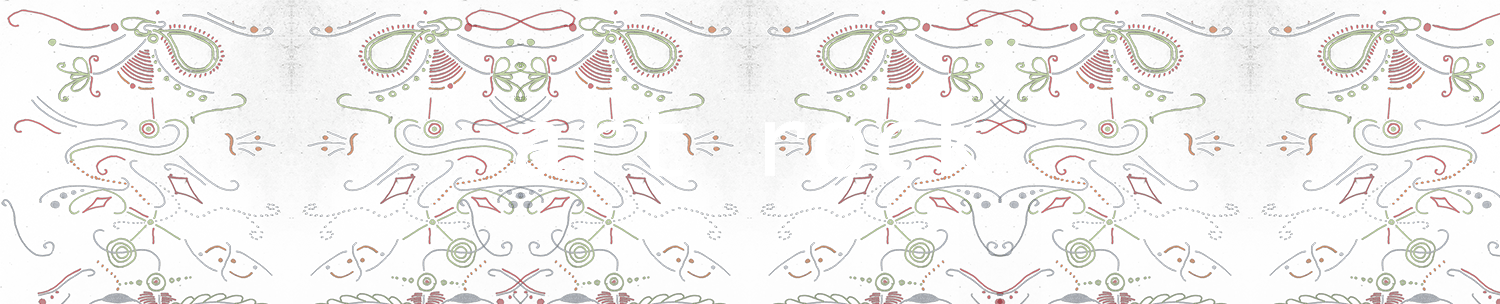
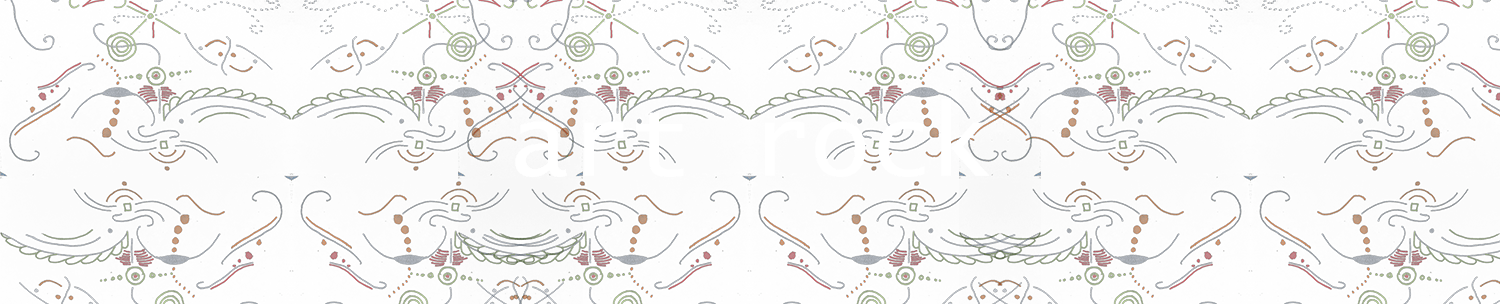
pulsating!

diff --git a/styles/index3.css b/styles/index3.css
@@ -17,10 +17,101 @@
       background-size: 300px;
     }
 
+    @keyframes hueRotation {
+      0% {
+        filter: hue-rotate(0deg);
+      }
+      100% {
+        filter: hue-rotate(360deg);
+      }
+    }
+
+    @keyframes pulsate {
+      0% {
+        transform: scale(1);
+      }
+      50% {
+        transform: scale(1.05);
+      }
+      100% {
+        transform: scale(1);
+      }
+    }
+    @keyframes pulsateMore {
+      0% {
+        transform: scale(1);
+      }
+      50% {
+        transform: scale(1.3);
+      }
+      100% {
+        transform: scale(1);
+      }
+    }
+
+    #infinityTitle {
+      animation: hueRotation 10s linear infinite, pulsate 5s ease-in-out infinite alternate;
+    }
+    
+    #horseloverTitle {
+      animation: hueRotation 8s linear infinite, pulsate 6s ease-in-out infinite alternate;
+    }
+    
+    #maapTitle {
+      animation: hueRotation 12s linear infinite, pulsate 4s ease-in-out infinite alternate;
+    }
+    
+    #maasTitle {
+      animation: hueRotation 7s linear infinite, pulsate 7s ease-in-out infinite alternate;
+    }
+    
+    #sapientsTitle {
+      animation: hueRotation 9s linear infinite, pulsate 3s ease-in-out infinite alternate;
+    }
+    
+    #symbioseTitle {
+      animation: hueRotation 11s linear infinite, pulsate 5s ease-in-out infinite alternate;
+    }
+    
+    #braidingTitle {
+      animation: hueRotation 9s linear infinite, pulsate 8s ease-in-out infinite alternate;
+    }
+    
+    #luzTitle {
+      animation: hueRotation 10s linear infinite, pulsate 4s ease-in-out infinite alternate;
+    }
+    
+    #inertiaTitle {
+      animation: hueRotation 8s linear infinite, pulsate 6s ease-in-out infinite alternate;
+    }
+
     #optionsDiv {
       transition: 1s;
       pointer-events: none;
     }
+    #musicOption {
+      animation: hueRotation 4s linear infinite, pulsate 2s ease-in-out infinite alternate;
+    }
+    #imagesOption {
+      animation: hueRotation 5s linear infinite, pulsate 3s ease-in-out infinite alternate;
+    }
+    #poemsOption {
+      animation: hueRotation 3s linear infinite, pulsate 4s ease-in-out infinite alternate;
+    }
+    #hiddenOption {
+      animation: hueRotation 2s linear infinite, pulsate 5s ease-in-out infinite alternate;
+    }
+    #aboutOption {
+      animation: hueRotation 6s linear infinite, pulsate 2.5s ease-in-out infinite alternate;
+    }
+
+    #pianoTitle {
+      animation: hueRotation 10s linear infinite, pulsate 4s ease-in-out infinite alternate;
+    }
+    #rockOption {
+      animation: hueRotation 8s linear infinite, pulsate 3s ease-in-out infinite alternate;
+    }
+
     #musicOptionsDiv {  
       display:none
     }
@@ -28,6 +119,8 @@
     #aboutDiv {
       overflow: hidden;
     }
+
+
 
     
 
@@ -333,6 +426,8 @@
     opacity: 0.8;   
     
   }
+
+  
 
   #musicOptionsDiv {
     position: relative;
@@ -954,7 +1049,8 @@
         width: 40px;
         opacity:0;
         visibility: hidden;
-        z-index: 99        
+        z-index: 99 ;
+        animation: pulsateMore 3s ease-in-out infinite alternate;       
       }     
       #backArrow:hover{
         opacity:1

diff --git a/index.html b/index.html
@@ -265,11 +265,11 @@
     <div id="centerContainer">
 
         <div id="optionsDiv">
-            <img id="musicOption" class="option" data-imgstm="images/music" src="images/music-unselected.png">
-            <img id="poemsOption" class="option" data-imgstm="images/poems" src="images/words-unselected.png">
-            <img id="imagesOption" class="option" data-imgstm="images/images" src="images/images-unselected.png">
-            <img id="hiddenOption" class="option" data-imgstm="images/hidden" src="images/hidden-option.png">
-            <img id="aboutOption" class="option" data-imgstm="images/about" src="images/about-unselected.png">
+            <img id="musicOption" class="option optionSlow" data-imgstm="images/music" src="images/music-unselected.png">
+            <img id="poemsOption" class="option optionFast" data-imgstm="images/poems" src="images/words-unselected.png">
+            <img id="imagesOption" class="option optionSlow" data-imgstm="images/images" src="images/images-unselected.png">
+            <img id="hiddenOption" class="option optionFast" data-imgstm="images/hidden" src="images/hidden-option.png">
+            <img id="aboutOption" class="option optionSlow" data-imgstm="images/about" src="images/about-unselected.png">
         </div>
 
         <div id="musicOptionsDiv">
